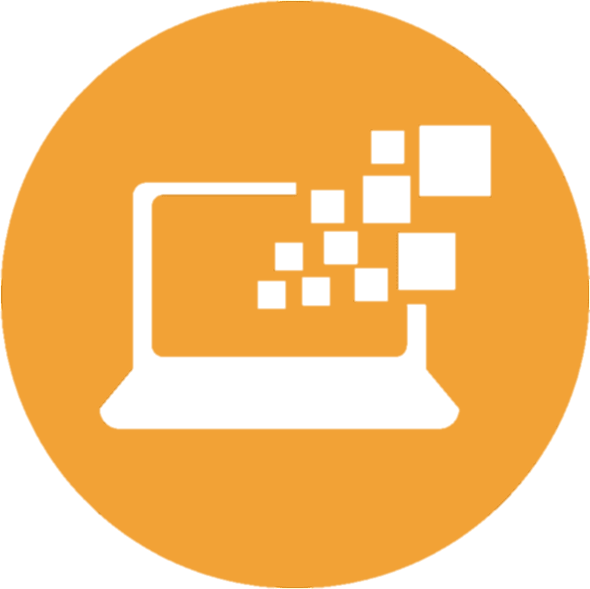
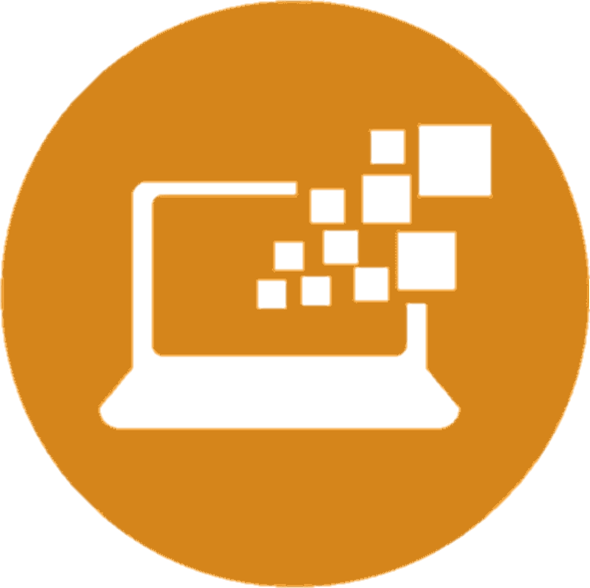
Cambio de imagenes y actualizacion de formación

diff --git a/index.html b/index.html
@@ -264,7 +264,7 @@
                 <h3 class="formacion__titulo titulo">Formación y cursos</h3>
                 <div class="formacion__boxContainer">
                     <ul class="formacion__box">
-                        <li class="formacion__list__imagen"> <img class="formacion__list__logo" src="assets/img/setec_logo.png"></li>
+                        <li class="formacion__list__imagen"> <img class="formacion__list__logo" src="assets/img/setec_logo.jpg"></li>
                         <li class="formacion__list__curso">Auditor interno ISO 9001</li>
                         <li class="formacion__list__escuela">2008 - SETEC (en Peugeot Citroen)</li>
                     </ul>
@@ -274,28 +274,28 @@
                         <li class="formacion__list__escuela">2004 - UTN</li>
                     </ul>
                     <ul class="formacion__box">
-                        <li class="formacion__list__imagen"> <img class="formacion__list__logo" src="assets/img/emprendimiento.png"></li>
+                        <li class="formacion__list__imagen"> <img class="formacion__list__logo" src="assets/img/emprendimiento.jpg"></li>
                         <li class="formacion__list__curso">Emprendimiento <span class="formacion__list__curso__comentario">(17% finalizado)</span></li>
                         <li class="formacion__list__escuela">2022 - Alura Latam / Oracle Next Education</li>
                     </ul>
                     <ul class="formacion__box">
-                        <li class="formacion__list__imagen"> <img class="formacion__list__logo" src="assets/img/desarrollo.png"></li>
+                        <li class="formacion__list__imagen"> <img class="formacion__list__logo" src="assets/img/desarrollo.jpg"></li>
                         <li class="formacion__list__curso">Desarollo Personal <span class="formacion__list__curso__comentario">(90% finalizado)</span></li>
                         <li class="formacion__list__escuela">2022 - Alura Latam / Oracle Next Education</li>
                     </ul>
                     <ul class="formacion__box">
-                        <li class="formacion__list__imagen"> <img class="formacion__list__logo" src="assets/img/businesagility.png"></li>
+                        <li class="formacion__list__imagen"> <img class="formacion__list__logo" src="assets/img/businesagility.jpg"></li>
                         <li class="formacion__list__curso">Business Agility <span class="formacion__list__curso__comentario">(25% finalizado)</span></li>
                         <li class="formacion__list__escuela">2022 - Alura Latam / Oracle Next Education</li>
                     </ul>
                     <ul class="formacion__box">
-                        <li class="formacion__list__imagen"> <img class="formacion__list__logo" class="formacion__list__logo" src="assets/img/principiante.png"></li>
+                        <li class="formacion__list__imagen"> <img class="formacion__list__logo" class="formacion__list__logo" src="assets/img/principiante.jpg"></li>
                         <li class="formacion__list__curso">Principiante en Programación</li>
                         <li class="formacion__list__escuela">2022 - Alura Latam / Oracle Next Education</li>
                     </ul>
                     <ul class="formacion__box">
-                        <li class="formacion__list__imagen"> <img class="formacion__list__logo" src="assets/img/frontend.png"></li>
-                        <li class="formacion__list__curso">Programación Front-End <span class="formacion__list__curso__comentario">(23% finalizado)</span></li>
+                        <li class="formacion__list__imagen"> <img class="formacion__list__logo" src="assets/img/frontend.jpg"></li>
+                        <li class="formacion__list__curso">Programación Front-End</li>
                         <li class="formacion__list__escuela">2022 - Alura Latam / Oracle Next Education</li>
                     </ul>
                 </div>

diff --git a/assets/css/main/formacion/formacion-container/formacion-boxContainer/formacion-box/formacion-imagen.css b/assets/css/main/formacion/formacion-container/formacion-boxContainer/formacion-box/formacion-imagen.css
@@ -1,4 +1,5 @@
 .formacion__list__imagen{
+    align-items: center;
     background-color: white;
     display: flex;
     justify-content: center;
